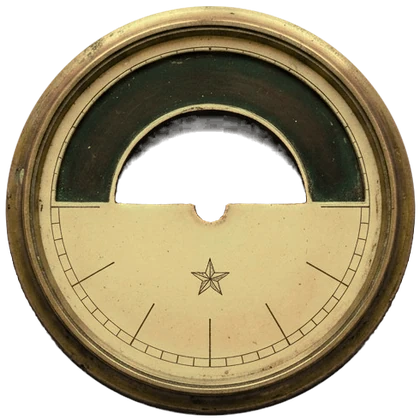
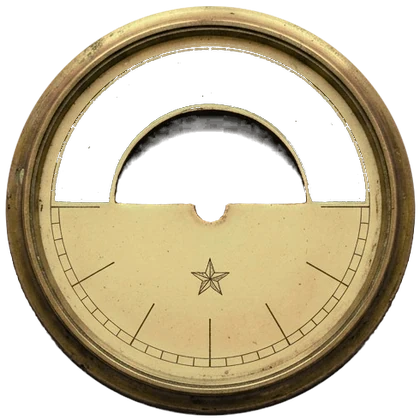
Studio dial: the dark band is a second window onto the sky
The band around the window is cut out of the face, and the disc is
larger: the painting in the middle, and an outer ring of plain painted
sky by day (blue overhead, dusk at the ends) and stars by night, so
both windows turn together.

Claude-Session: https://claude.ai/code/session_0195hiXiVZY5DpQ2CCYEr2vL

Changed region(s): [[0.1238, 0.0929, 0.8976, 0.4952]]

diff --git a/studio/table/table.css b/studio/table/table.css
@@ -129,7 +129,7 @@
   filter:drop-shadow(6px 9px 9px rgba(20,10,2,.5));transition:filter 2.4s ease}
 .st-foot.night .st-dial{filter:drop-shadow(8px 11px 10px rgba(10,4,0,.6)) brightness(.88)}
 .st-dial img{position:absolute;display:block}
-.dial-disc{width:54%;left:23%;top:22.18%;rotate:var(--turn,0deg);transition:rotate 2.6s cubic-bezier(.45,.05,.3,1)}
+.dial-disc{width:75.92%;left:12.04%;top:10.92%;rotate:var(--turn,0deg);transition:rotate 2.6s cubic-bezier(.45,.05,.3,1)}
 .dial-face{inset:0;width:100%;height:100%;filter:drop-shadow(1px 3px 2px rgba(20,10,2,.45))}
 @media (max-width:640px){
   .st-foot .st-switch{left:calc(50% + 68px)}

diff --git a/studio/table/index.html b/studio/table/index.html
@@ -7,7 +7,7 @@
 <title>Studio table · test</title>
 <link rel="icon" href="/favicon.svg?v=2" type="image/svg+xml">
 <link rel="stylesheet" href="https://fonts.googleapis.com/css2?family=Nunito:wght@600;800&display=swap">
-<link rel="stylesheet" href="table.css?v=15">
+<link rel="stylesheet" href="table.css?v=16">
 </head>
 <body class="table-page">
 <main>

diff --git a/studio/index.php b/studio/index.php
@@ -35,7 +35,7 @@ $in = studio_logged_in();
 <link rel="preconnect" href="https://fonts.googleapis.com">
 <link rel="stylesheet" href="https://fonts.googleapis.com/css2?family=Nunito:wght@600;800&display=swap">
 <link rel="stylesheet" href="assets/studio.css?v=<?= STUDIO_VERSION ?>-3">
-<link rel="stylesheet" href="table/table.css?v=15">
+<link rel="stylesheet" href="table/table.css?v=16">
 </head>
 <?php if (!$in): ?>
 <body class="login">
@@ -72,8 +72,8 @@ $in = studio_logged_in();
 <footer class="st-foot" aria-label="Studio">
   <div class="st-foot-wood" aria-hidden="true"><span class="day"></span><span class="night"></span></div>
   <div class="st-dial" aria-hidden="true">
-    <img class="dial-disc" id="dialDisc" src="table/a/dial-disc.webp" alt="">
-    <img class="dial-face" src="table/a/dial-face.webp" alt="">
+    <img class="dial-disc" id="dialDisc" src="table/a/dial-disc.webp?v=2" alt="">
+    <img class="dial-face" src="table/a/dial-face.webp?v=2" alt="">
   </div>
   <button type="button" class="st-switch" id="dayNight" role="switch" aria-checked="false" aria-label="Day. Switch to night">
     <img class="sw-day" src="table/a/switch-day.webp" alt="">
